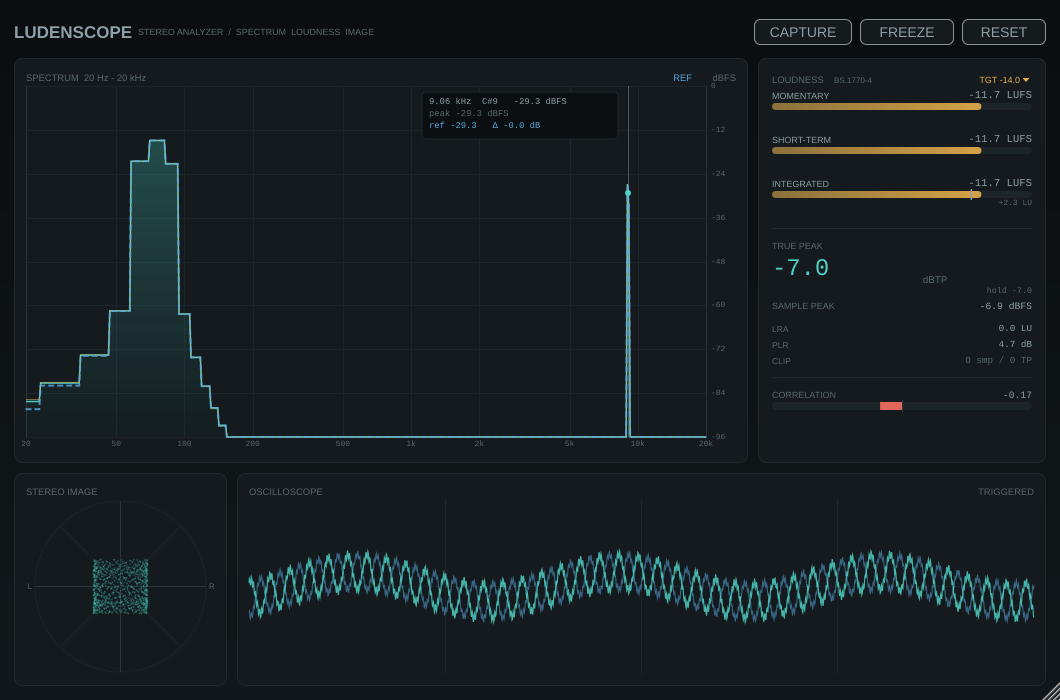
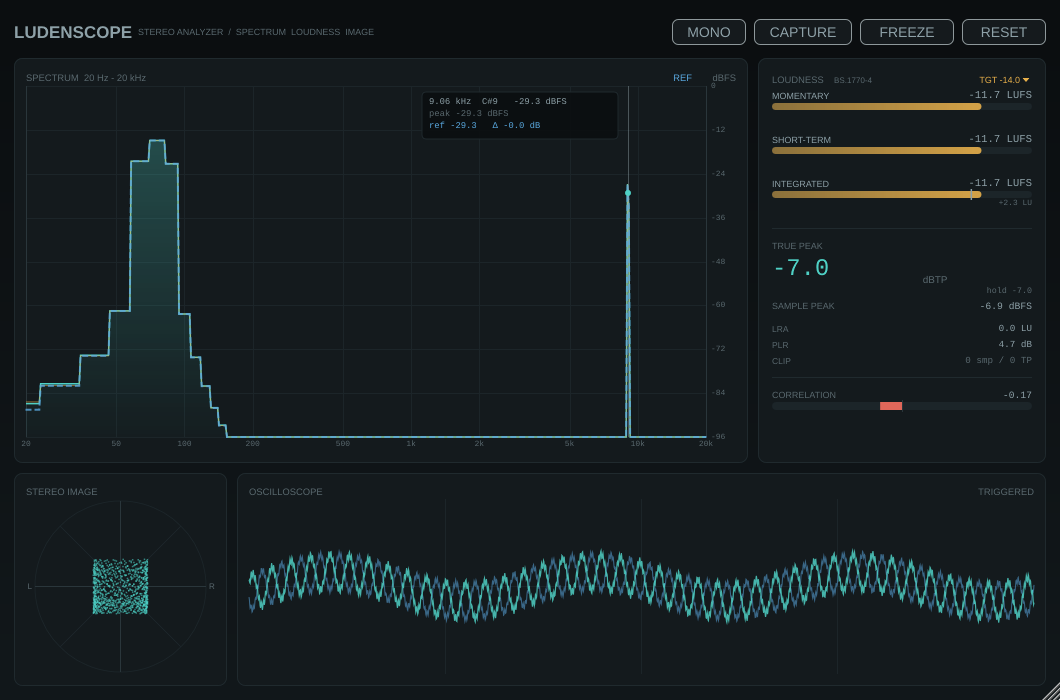
ui: phosphor trail on the goniometer and a MONO check button
The stereo image now keeps a decaying trail image, so movement in the
vector scope stays visible instead of vanishing between frames. The new
MONO toggle sums the input for the analyzers only (true peak, spectrum,
correlation and scopes), which makes phase cancellation obvious without
changing the signal the DAW hears.

diff --git a/Source/ui/VectorScopeView.h b/Source/ui/VectorScopeView.h
@@ -3,6 +3,7 @@
 #include <juce_gui_basics/juce_gui_basics.h>
 
 #include <algorithm>
+#include <cmath>
 #include <vector>
 
 #include "Theme.h"
@@ -54,7 +55,41 @@ public:
         const int count = (int) juce::jmin (left.size(), right.size());
         const int step = juce::jmax (1, count / 2000);
 
-        g.setColour (theme::accent.withAlpha (0.30f));
+        const int imageWidth = juce::jmax (1, (int) std::ceil (square.getWidth()));
+        const int imageHeight = juce::jmax (1, (int) std::ceil (square.getHeight()));
+
+        if (trail.getWidth() != imageWidth || trail.getHeight() != imageHeight)
+        {
+            trail = juce::Image (juce::Image::ARGB, imageWidth, imageHeight, true);
+        }
+        else
+        {
+            // Phosphor-style decay: older points fade out instead of vanishing.
+            trail.multiplyAllAlphas (0.90f);
+        }
+
+        {
+            juce::Graphics trailGraphics (trail);
+
+            for (int i = 0; i < count; i += step)
+            {
+                const float sideValue = (left[(size_t) i] - right[(size_t) i]) * 0.7071f;
+                const float midValue  = (left[(size_t) i] + right[(size_t) i]) * 0.7071f;
+
+                const float x = centre.x + juce::jlimit (-1.0f, 1.0f, sideValue) * radius
+                                - square.getX();
+                const float y = centre.y - juce::jlimit (-1.0f, 1.0f, midValue) * radius
+                                - square.getY();
+
+                trailGraphics.setColour (theme::accent.withAlpha (0.10f));
+                trailGraphics.fillRect (x - 0.75f, y - 0.75f, 1.5f, 1.5f);
+            }
+        }
+
+        g.drawImageAt (trail, (int) square.getX(), (int) square.getY());
+
+        // Current points stay bright on top of the decay trail.
+        g.setColour (theme::accent.withAlpha (0.55f));
 
         for (int i = 0; i < count; i += step)
         {
@@ -77,4 +112,5 @@ public:
 
 private:
     std::vector<float> left, right;
+    juce::Image trail;
 };

diff --git a/Source/PluginEditor.cpp b/Source/PluginEditor.cpp
@@ -35,6 +35,14 @@ LudensScopeEditor::LudensScopeEditor (LudensScopeProcessor& p)
     captureButton.onClick = [this] { captureReference(); };
     addAndMakeVisible (captureButton);
 
+    monoButton.setClickingTogglesState (true);
+    monoButton.setColour (juce::TextButton::buttonColourId, theme::panel);
+    monoButton.setColour (juce::TextButton::buttonOnColourId, theme::accent);
+    monoButton.setColour (juce::TextButton::textColourOffId, theme::text);
+    monoButton.setColour (juce::TextButton::textColourOnId, theme::bg);
+    monoButton.onClick = [this] { monoActive = monoButton.getToggleState(); };
+    addAndMakeVisible (monoButton);
+
     readLeft.resize (readChunk);
     readRight.resize (readChunk);
 
@@ -73,6 +81,8 @@ void LudensScopeEditor::resized()
     freezeButton.setBounds (header.removeFromRight (94).withSizeKeepingCentre (94, 26));
     header.removeFromRight (8);
     captureButton.setBounds (header.removeFromRight (98).withSizeKeepingCentre (98, 26));
+    header.removeFromRight (8);
+    monoButton.setBounds (header.removeFromRight (74).withSizeKeepingCentre (74, 26));
 
     r.removeFromTop (8);
 
@@ -106,6 +116,16 @@ void LudensScopeEditor::timerCallback()
     }
 
     const int numRead = processor.readSamples (readLeft.data(), readRight.data(), readChunk);
+
+    // Mono check: sum the input for the analyzers without touching the DAW signal.
+    if (numRead > 0 && monoActive)
+    {
+        for (int i = 0; i < numRead; ++i)
+        {
+            const float mono = 0.5f * (readLeft[(size_t) i] + readRight[(size_t) i]);
+            readLeft[(size_t) i] = readRight[(size_t) i] = mono;
+        }
+    }
 
     float blockTruePeak = 0.0f;
     float blockSamplePeak = 0.0f;

diff --git a/Source/PluginEditor.h b/Source/PluginEditor.h
@@ -45,6 +45,9 @@ private:
     juce::TextButton freezeButton { "FREEZE" };
     juce::TextButton resetButton  { "RESET" };
     juce::TextButton captureButton { "CAPTURE" };
+    juce::TextButton monoButton { "MONO" };
+
+    bool monoActive = false;
 
     std::array<float, SpectrumAnalyzer::numBins> referenceDb {};
     bool hasReference = false;

diff --git a/README.md b/README.md
@@ -65,7 +65,8 @@ cmake --build --preset dev -j$(nproc)
 4. TRUE PEAK — 4x передискретизация, dBTP. Красный при > -1 dBTP.
    LRA — диапазон громкости (EBU 3342), PLR — peak-to-loudness, CLIP — число
    сэмплов ≥ 0 dBFS и intersample-оверов.
-5. STEREO IMAGE — гониометр, OSCILLOSCOPE — с триггером по переходу через ноль.
+5. STEREO IMAGE — гониометр со шлейфом, OSCILLOSCOPE — с триггером по переходу
+   через ноль. `MONO` — анализ суммы каналов для проверки моно-совместимости.
 6. `CAPTURE` — зафиксировать усреднённый спектр как референс (синий пунктир;
    разница с текущим уровнем видна в инспекторе). `FREEZE` — стопор кадров,
    `RESET` — сброс пиков, громкости, референса и счётчиков.
